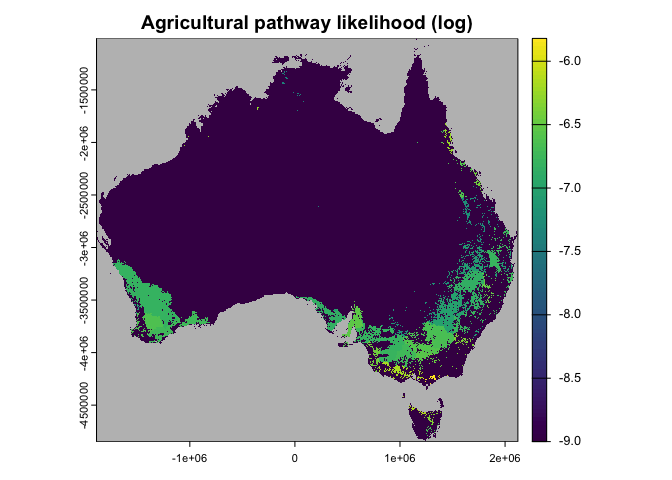
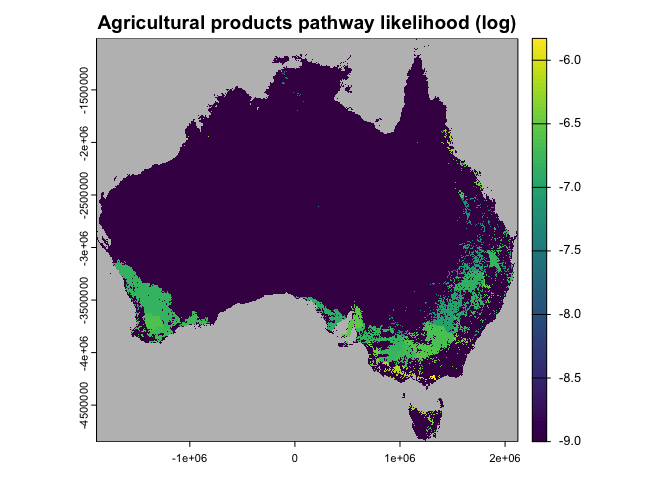
Updated README (4)

diff --git a/README.md b/README.md
@@ -160,7 +160,6 @@ biotic_nvis_suitability <- bsrmap::aggregate_categories(
   nvis_rast, area_template,
   categories = all_cats, selected = selected_cats,
   binarize = TRUE)
-#> |---------|---------|---------|---------|=========================================                                          |---------|---------|---------|---------|=========================================                                          |---------|---------|---------|---------|=========================================                                          
 terra::plot(biotic_nvis_suitability, colNA = "grey",
             main = "Suitable NVIS major vegetation")
 ```
@@ -196,7 +195,6 @@ biotic_land_use_suitability <- bsrmap::aggregate_categories(
   categories = all_cats,
   selected = selected_cats,
   binarize = TRUE)
-#> |---------|---------|---------|---------|=========================================                                          |---------|---------|---------|---------|=========================================                                          
 terra::plot(biotic_land_use_suitability, colNA = "grey",
             main = "Suitable ABARES land use")
 ```
@@ -247,8 +245,10 @@ estimates. Here will calculate the threat arrival likelihoods for three
 different pathways:
 
 1.  Arrivals via agricultural products
-2.  Tourist arrivals
-3.  Mail arrivals
+2.  Arrivals via tourists
+3.  Arrivals via mail
+
+#### Agricultural products pathway
 
 Arrivals via agricultural products can be estimated using data
 pertaining to the distribution of fertiliser use across Australian
@@ -277,7 +277,6 @@ agriculture_land_use <- bsrmap::aggregate_categories(
                445, 446, 447, 448, 449, 450, 451, 452, 453, 454, 510,
                511, 512, 513, 514),
   binarize = TRUE)
-#> |---------|---------|---------|---------|=========================================                                          |---------|---------|---------|---------|=========================================                                          
 terra::plot(agriculture_land_use, colNA = "grey",
             main = "ABARES agricultural land use")
 ```
@@ -298,17 +297,19 @@ terra::plot(fertiliser_distr, colNA = "grey",
 <img src="man/figures/README-example_4_1-2.png" width="100%" style="display: block; margin: auto;" />
 
 ``` r
-# Agricultural pathway likelihood
+# Agricultural products pathway likelihood
 agriculture_likelihood <- bsrmap::pathway_likelihood(
   pathway_layers = fertiliser_distr,
   leakage_rate_ci = c(3, 30),
   viability_rate_ci = c(0.001, 0.05),
   confidence = 0.95)
 terra::plot(log(agriculture_likelihood + 1e-9, base = 10), colNA = "grey",
-            main = "Agricultural pathway likelihood (log)")
+            main = "Agricultural products pathway likelihood (log)")
 ```
 
 <img src="man/figures/README-example_4_1-3.png" width="100%" style="display: block; margin: auto;" />
+
+#### Tourists pathway
 
 Arrivals via tourists can be estimated using data pertaining to the
 distribution of tourist accommodation (Australian Bureau of Statistics,
@@ -360,6 +361,8 @@ terra::plot(log(tourists_likelihood + 1e-7, base = 10), colNA = "grey",
 
 <img src="man/figures/README-example_4_2-3.png" width="100%" style="display: block; margin: auto;" />
 
+#### Mail pathway
+
 Arrivals via mail can be estimated using data pertaining to the
 distribution of human population in Australia (Australian Bureau of
 Statistics, 2024-25). We firstly conform this layer to our area of
@@ -395,7 +398,62 @@ terra::plot(log(mail_likelihood + 1e-8, base = 10), colNA = "grey",
 
 ### Step 5: Arrival likelihood
 
+We can now calculate the overall arrival likelihood by combining our
+three pathway likelihood layers via our *arrival_likelihood* function.
+Note that this time we combine our likelihood layers via the “union”
+function, which is calculated via $1-\prod_{i=1}^n(1-p_i)$ at each
+location (grid-cell) using the local arrival likelihoods $p_i$ for each
+$i$ of $n$ pathways. For small likelihood values the “union” function is
+approximately equivalent to adding the likelihood values. For example:
+
+``` r
+cell = [phone redacted]
+p_1 = agriculture_likelihood[cell][,1]
+p_2 = tourists_likelihood[cell][,1]
+p_3 = mail_likelihood[cell][,1]
+1 - (1 - p_1)*(1 - p_2)*(1 - p_3)
+#> [1] 0.0001654734
+p_1 + p_2 + p_3
+#> [1] 0.0001654749
+```
+
+Let’s now calculate the overall arrival likelihood layer.
+
+``` r
+# Combine pathway arrival likelihood layers
+arrival_likelihood <- bsrmap::arrival_likelihood(
+  terra::rast(list(agriculture_likelihood,
+                   tourists_likelihood,
+                   mail_likelihood)),
+  use_fun = "union")
+arrival_likelihood[cell][,1] # compare with "union" example
+#> [1] 0.0001654734
+terra::plot(log(arrival_likelihood + 1e-9, base = 10), colNA = "grey",
+            main = "Arrival likelihood (log)")
+```
+
+<img src="man/figures/README-example_5_2-1.png" width="100%" style="display: block; margin: auto;" />
+
 ### Step 6: Establishment likelihood
+
+Finally, we can now calculate the overall threat establishment
+likelihood by combining the threat suitability and arrival likelihood
+layers via our *establishment_likelihood* function. Note that this time
+we combine our layers via the “prod” function, since for the threat to
+establish at a location (grid-cell), the location must be sufficiently
+suitable, and likely to arrive at the location (assuming reasonable
+independence between suitability and arrival probabilities).
+
+``` r
+# Combine threat suitability and arrival likelihood layers
+establishment_likelihood <- bsrmap::establishment_likelihood(
+  threat_suitability, arrival_likelihood,
+  use_fun = "prod")
+terra::plot(log(establishment_likelihood + 1e-12, base = 10), colNA = "grey",
+            main = "Establishment likelihood (log)")
+```
+
+<img src="man/figures/README-example_6-1.png" width="100%" style="display: block; margin: auto;" />
 
 ## References
 